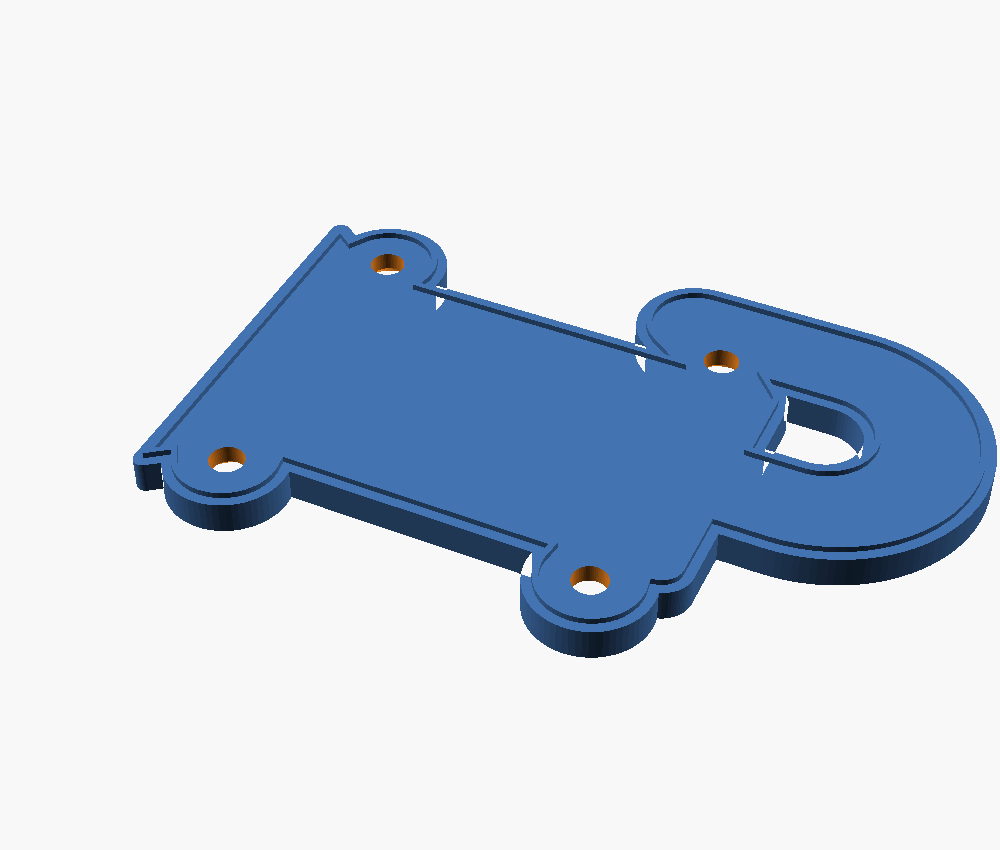
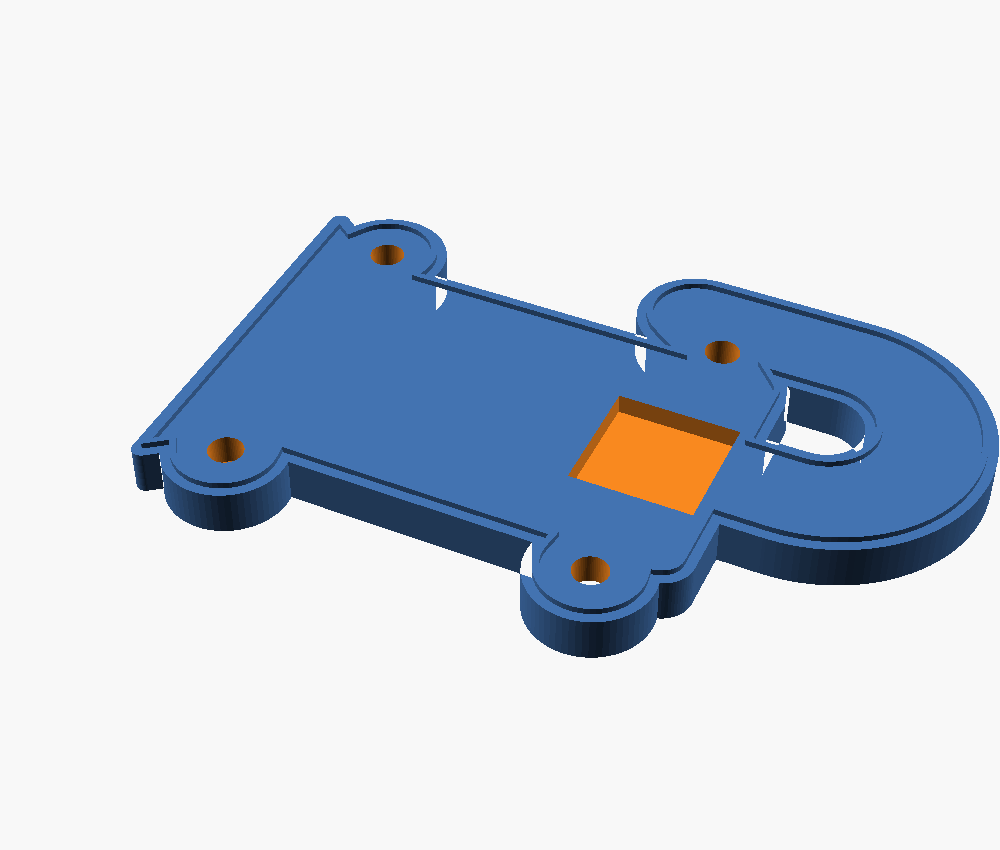
Dégager les soudures du connecteur, que la coquille arrière écrasait
Le connecteur est traversant : ses trois soudures dépassent au dos de la
carte, côté couvercle, et rien dans le modèle ne représentait le PCB
autrement que comme une plaque lisse. Sans dégagement, 19,34 mm³ de
soudure sont enfouis dans le plastique — la coque ne ferme pas.

Relevé sur pièce : 2,0 mm de haut. Le rang est à 4,5 mm sous le bord
haut de la carte, au pas de 2,54 — un pas au pouce, et non les 2,0 d'un
PH2.0 comme l'en-tête du modèle le supposait.

Ce qu'il faut dégager n'est pas 2 mm. La carte s'assoit déjà 0,3 sous le
plan de joint, son logement étant creusé d'autant en plus ; la saillie
réelle au-dessus du joint n'est que de 1,7. Cette cote traînait en dur à
cinq endroits, elle s'appelle maintenant pcb_enf et le calcul peut s'y
adosser.

L'épaisseur de la coquille arrière en découle au lieu d'être posée à la
main : ep_ar = paroi + deg_p, soit 4,4. Le fond sous la poche fait alors
2,4, l'épaisseur de paroi de toute la pièce. C'est +1,2 mm et non les +2
qu'on pourrait croire, et la visserie reste en M3x8 — 4,4 de coquille et
2,4 d'écrou laissent 1,2 de pointe dans le dégagement.

La poche est large et peu profonde, 12 x 12 pour un rang de 5 : sa
position tolère 3 mm d'erreur, sa profondeur se discute au dixième parce
que son fond est la seule paroi à cet endroit.

Deux contrôles de plus. Le premier attrape les soudures enfouies. Le
second est un garde-fou que rien n'imposait : la poche passe à 7 mm de
[…]

Changed region(s): [[0.124, 0.2447, 1.0, 0.7647]]

diff --git a/docs/src/content/docs/materiel/coque-des-sondes.md b/docs/src/content/docs/materiel/coque-des-sondes.md
@@ -4,7 +4,7 @@ description: Le boîtier imprimé en 3D qui protège la partie haute des sondes 
 sidebar:
   order: 4
   badge:
-    text: v7 à imprimer
+    text: v8 à imprimer
     variant: caution
 ---
 
@@ -14,7 +14,7 @@ conception produit un boîtier imprimable en 3D — paramétrique, versionné da
 
 ```console
 $ just coque-stl        # génère les deux coquilles
-$ just coque-test       # banc d'essai : ergots, visserie, joint, retournement
+$ just coque-test       # banc d'essai : sept contrôles, un par défaut rencontré
 $ just coque-preview    # ouvre le modèle
 ```
 
@@ -31,9 +31,14 @@ part en part. C'est ce qu'a repris la **v6** — voir
 
 La v6 a été imprimée à son tour, et sa coquille arrière sortait inutilisable :
 elle était posée sur l'avant par un miroir là où il fallait une rotation, si
-bien qu'**aucun mouvement physique** ne l'amenait à sa place. La **v7** corrige
-ça et reste à imprimer — voir [une coquille arrière qu'on peut
+bien qu'**aucun mouvement physique** ne l'amenait à sa place — c'est la **v7**
+qui corrige ça, voir [une coquille arrière qu'on peut
 retourner](#v7--une-coquille-arrière-quon-peut-retourner).
+
+La sonde en main a enfin montré ce qu'aucune vue ne disait : le connecteur est
+traversant, et ses **trois soudures dépassent de 2 mm au dos de la carte**,
+exactement là où le couvercle vient. La **v8** les dégage et reste à imprimer —
+voir [les soudures du connecteur](#v8--les-soudures-du-connecteur).
 :::
 
 ## La contrainte qui gouverne tout le reste
@@ -311,8 +316,6 @@ z = 0 est le plan de joint, la languette descend dedans — et c'est l'export qu
 la retourne, par une vraie rotation. La pièce sort donc du modèle déjà à plat,
 face extérieure vers le plateau.
 
-![Rendu de la coquille arrière telle qu'elle est exportée, prête à imprimer : la languette en relief sur la face du dessus, les quatre perçages fraisés côté plateau](../../../assets/coque/coquille-arriere.png)
-
 Elle paraît retournée par rapport à la coquille avant, et c'est normal : c'est
 une pièce qu'on pose face contre face.
 
@@ -343,6 +346,49 @@ calculé par `tools/volume-stl.py`, avec un seuil à 0,001 mm³ — un cube de
   ok    décalage 1.5 mm                                bute, 2.144491 mm3
   ok    la pièce imprimée se retourne                  libre
 ```
+
+### v8 — les soudures du connecteur
+
+Le connecteur est **traversant** : ses trois soudures dépassent au **dos** de la
+carte, côté coquille arrière, qui les rencontrait de plein fouet. Rien dans le
+modèle ne représentait la carte autrement que comme une plaque lisse — c'est une
+chose qu'on ne voit qu'en tenant la sonde.
+
+Relevé : **2,0 mm** de haut, en rang de trois au pas de **2,54 mm** (un pas au
+pouce, pas les 2,0 d'un PH2.0), à 4,5 mm sous le bord haut de la carte.
+
+**Ce qu'il faut dégager n'est pas 2 mm.** La carte s'assoit déjà 0,3 mm sous le
+plan de joint, parce que son logement est creusé d'autant en plus. La saillie
+réelle au-dessus du joint n'est donc que de 1,7 mm, et la poche fait 2,0 mm avec
+son jeu.
+
+```text
+                   ██ ██ ██  soudures, 2,0
+   ┌──────────────┐  │  │  │ ┌──────────────
+   │  coquille    └──┴──┴──┴─┘   poche 2,0
+   │  arrière                    fond 2,4 = paroi
+   ╞══════════════════════════════════ plan de joint
+   │  ▓▓▓▓▓▓▓▓▓ carte, assise 0,3 dessous
+```
+
+**L'épaisseur de la coquille arrière en découle**, au lieu d'être posée à la
+main : `ep_ar = paroi + deg_p`, soit **4,4 mm**. Le fond sous la poche fait alors
+2,4 mm — l'épaisseur de paroi de toute la pièce. C'est +1,2 mm et non les +2 mm
+qu'on pourrait croire, et la visserie reste en **M3×8** : 4,4 de coquille plus
+2,4 d'écrou laissent encore 1,2 mm de pointe dans le dégagement.
+
+La poche est **large et peu profonde** — 12 × 12 mm pour un rang de 5 : sa
+position exacte compte peu, un rang de 5 dans une poche de 12 tolère 3 mm
+d'erreur. Sa profondeur, elle, se discute au dixième, parce que son fond est la
+seule paroi à cet endroit.
+
+![Rendu de la coquille arrière telle qu'elle est exportée, prête à imprimer : la languette en relief sur le pourtour, la poche de dégagement des soudures, et les quatre perçages fraisés côté plateau](../../../assets/coque/coquille-arriere.png)
+
+**Deux contrôles de plus.** Le premier vérifie que les soudures ne touchent pas
+le couvercle — sans la poche, 19,34 mm³ de soudure sont enfouis dans le
+plastique. Le second est un garde-fou : la poche passe à 7 mm de l'anneau de
+joint, et l'élargir la ferait **couper la languette en deux** sans que rien
+d'autre ne s'en aperçoive.
 
 ## Le relevé qui a tranché
 

diff --git a/hardware/coque/README.md b/hardware/coque/README.md
@@ -13,7 +13,7 @@ $ just coque-preview      # ouvre le modèle dans OpenSCAD
 
 ## ⚠ Avant d'imprimer
 
-**Passe `just coque-test`.** Cinq contrôles, un par défaut déjà rencontré :
+**Passe `just coque-test`.** Sept contrôles, un par défaut déjà rencontré :
 
 | Contrôle | Le défaut qu'il attrape |
 |---|---|
@@ -22,6 +22,8 @@ $ just coque-preview      # ouvre le modèle dans OpenSCAD
 | aucune cavité ne débouche dehors | v5 : quatre perçages traversaient la coque, à l'intérieur du joint |
 | la languette entre dans la rainure | v5 : la coquille arrière était un couvercle plat |
 | la pièce imprimée se retourne | v6 : posée par un miroir, la coquille arrière n'atteignait sa pose par aucun mouvement réel |
+| les soudures ne touchent pas l'arrière | v7 : les 3 soudures du connecteur, 2 mm au dos de la carte, tapaient dans le couvercle |
+| le dégagement ne coupe pas la languette | garde-fou : la poche de dégagement passe à 7 mm de l'anneau de joint |
 
 Tous ont été validés en **réintroduisant le défaut** : un contrôle qu'on n'a
 jamais vu échouer peut très bien ne rien mesurer.
